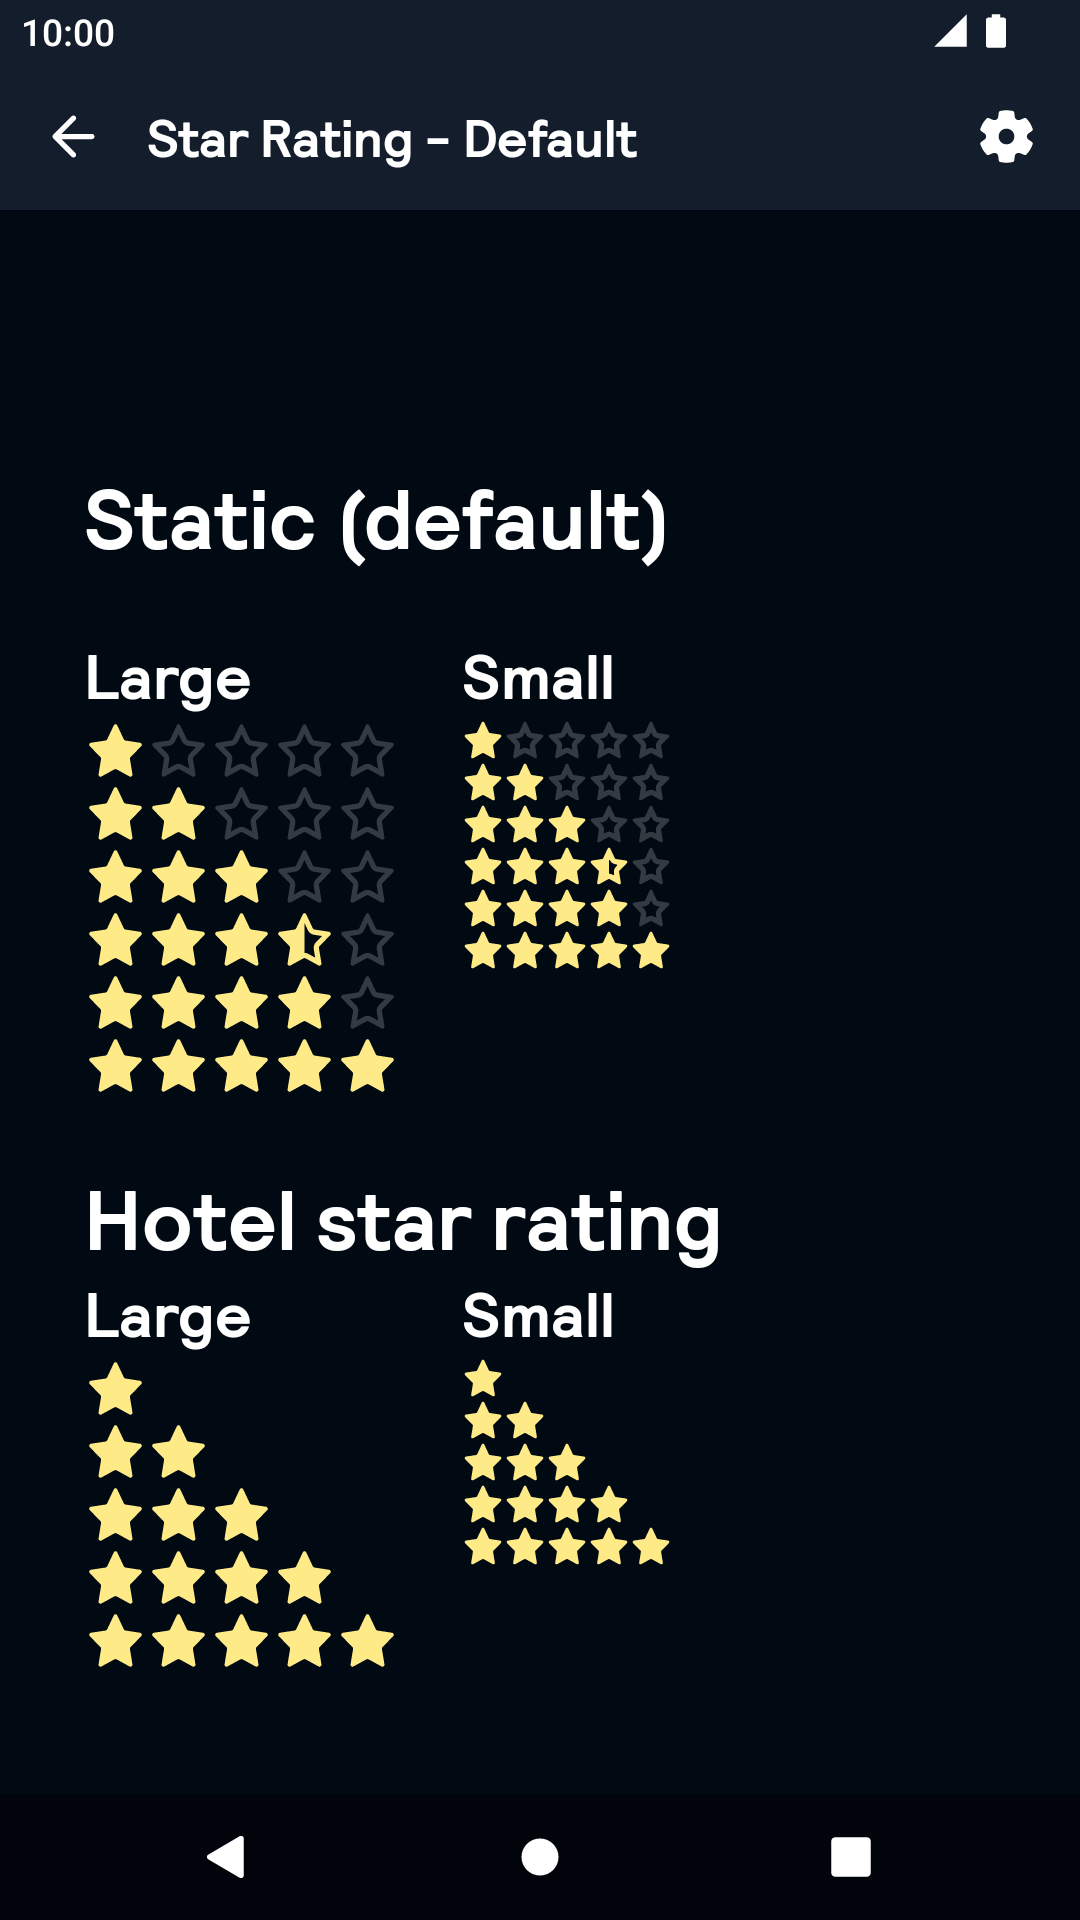
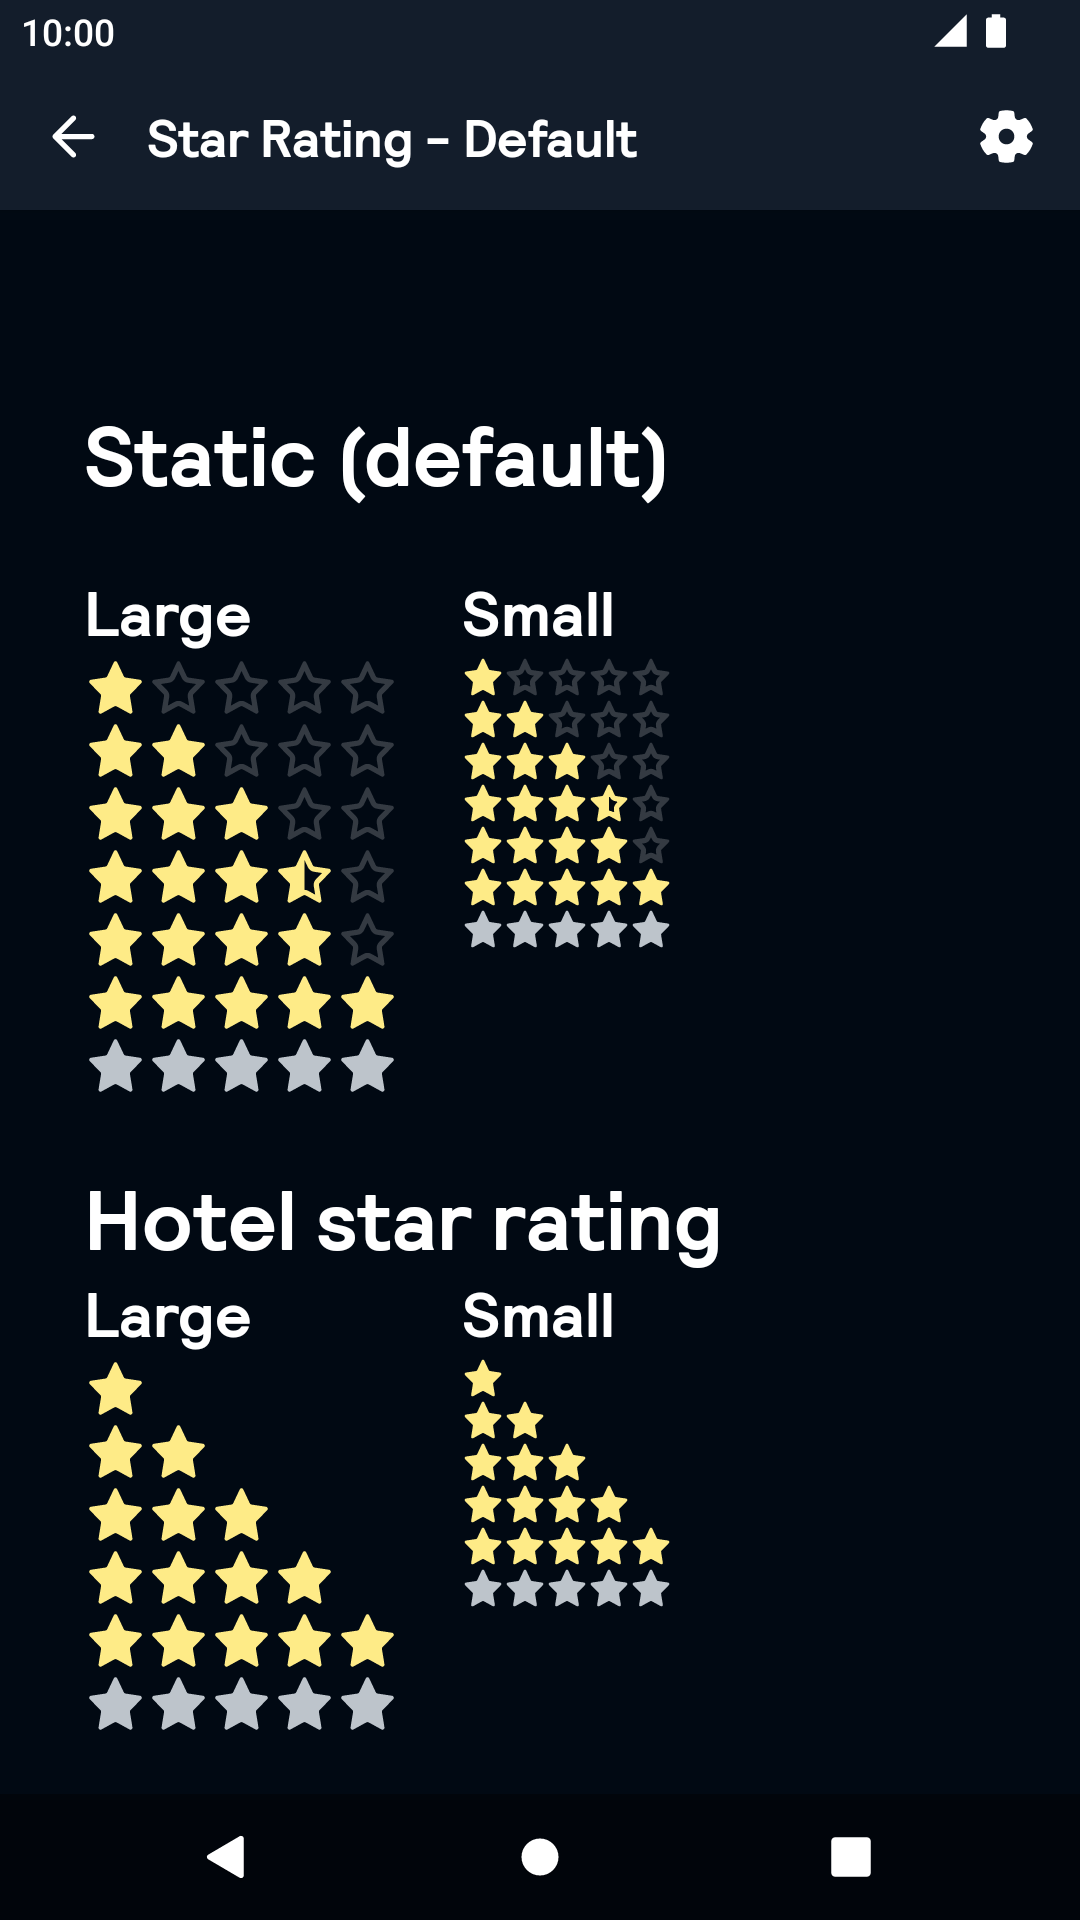
PAN-3441: Add color param for star rating components.

diff --git a/backpack-compose/src/main/kotlin/net/skyscanner/backpack/compose/starrating/BpkStarRating.kt b/backpack-compose/src/main/kotlin/net/skyscanner/backpack/compose/starrating/BpkStarRating.kt
@@ -25,14 +25,11 @@ import androidx.compose.foundation.progressSemantics
 import androidx.compose.runtime.Composable
 import androidx.compose.runtime.key
 import androidx.compose.ui.Modifier
+import androidx.compose.ui.graphics.Color
 import androidx.compose.ui.platform.LocalContext
 import androidx.compose.ui.semantics.semantics
 import androidx.compose.ui.semantics.setProgress
 import androidx.compose.ui.semantics.stateDescription
-import kotlin.math.ceil
-import kotlin.math.floor
-import kotlin.math.round
-import kotlin.math.roundToInt
 import net.skyscanner.backpack.compose.icon.BpkIcon
 import net.skyscanner.backpack.compose.icon.BpkIconSize
 import net.skyscanner.backpack.compose.theme.BpkTheme
@@ -42,6 +39,10 @@ import net.skyscanner.backpack.compose.tokens.StarOutline
 import net.skyscanner.backpack.compose.utils.ContentDescriptionScope
 import net.skyscanner.backpack.compose.utils.applyIf
 import net.skyscanner.backpack.compose.utils.clickableWithRipple
+import kotlin.math.ceil
+import kotlin.math.floor
+import kotlin.math.round
+import kotlin.math.roundToInt
 
 enum class BpkStarRatingSize {
     Large,
@@ -61,6 +62,7 @@ fun BpkStarRating(
     modifier: Modifier = Modifier,
     rounding: BpkRatingRounding = BpkRatingRounding.Down,
     size: BpkStarRatingSize = BpkStarRatingSize.Small,
+    color: Color? = null,
 ) {
     BpkStarRating(
         rating = rating,
@@ -70,6 +72,7 @@ fun BpkStarRating(
         modifier = modifier,
         contentDescription = contentDescription,
         size = size,
+        color = color,
     )
 }
 
@@ -79,6 +82,7 @@ fun BpkHotelRating(
     contentDescription: ContentDescriptionScope.(Float, Int) -> String,
     modifier: Modifier = Modifier,
     size: BpkStarRatingSize = BpkStarRatingSize.Small,
+    color: Color? = null,
 ) {
     BpkStarRating(
         rating = rating.toFloat(),
@@ -88,6 +92,7 @@ fun BpkHotelRating(
         modifier = modifier,
         contentDescription = contentDescription,
         size = size,
+        color = color,
     )
 }
 
@@ -98,6 +103,7 @@ fun BpkInteractiveStarRating(
     contentDescription: ContentDescriptionScope.(Float, Int) -> String,
     modifier: Modifier = Modifier,
     size: BpkStarRatingSize = BpkStarRatingSize.Small,
+    color: Color? = null,
 ) {
     BpkStarRating(
         rating = rating.toFloat(),
@@ -108,6 +114,7 @@ fun BpkInteractiveStarRating(
         onRatingChanged = onRatingChanged,
         contentDescription = contentDescription,
         size = size,
+        color = color,
     )
 }
 
@@ -121,6 +128,7 @@ private fun BpkStarRating(
     modifier: Modifier = Modifier,
     size: BpkStarRatingSize = BpkStarRatingSize.Large,
     onRatingChanged: ((Int) -> Unit)? = null,
+    color: Color? = null,
 ) {
     val iconSize = when (size) {
         BpkStarRatingSize.Large -> BpkIconSize.Large
@@ -159,11 +167,13 @@ private fun BpkStarRating(
                         icon = BpkRatingStarType.Half,
                         iconSize = iconSize,
                         modifier = starModifier,
+                        color = color,
                     )
                     else -> BpkStar(
                         icon = BpkRatingStarType.Full,
                         iconSize = iconSize,
                         modifier = starModifier,
+                        color = color,
                     )
                 }
             }
@@ -176,6 +186,7 @@ private fun BpkStar(
     icon: BpkRatingStarType,
     iconSize: BpkIconSize,
     modifier: Modifier = Modifier,
+    color: Color? = null,
 ) {
     when (icon) {
         BpkRatingStarType.Empty -> BpkIcon(
@@ -189,14 +200,14 @@ private fun BpkStar(
             icon = BpkIcon.StarHalf,
             contentDescription = null,
             size = iconSize,
-            tint = BpkTheme.colors.statusWarningSpot,
+            tint = color ?: BpkTheme.colors.statusWarningSpot,
             modifier = modifier,
         )
         BpkRatingStarType.Full -> BpkIcon(
             icon = BpkIcon.Star,
             contentDescription = null,
             size = iconSize,
-            tint = BpkTheme.colors.statusWarningSpot,
+            tint = color ?: BpkTheme.colors.statusWarningSpot,
             modifier = modifier,
         )
     }

diff --git a/app/src/test/java/net/skyscanner/backpack/compose/starrating/BpkStarRatingTest.kt b/app/src/test/java/net/skyscanner/backpack/compose/starrating/BpkStarRatingTest.kt
@@ -20,6 +20,7 @@
 package net.skyscanner.backpack.compose.starrating
 
 import net.skyscanner.backpack.compose.BpkSnapshotTest
+import net.skyscanner.backpack.compose.theme.BpkTheme
 import net.skyscanner.backpack.demo.R
 import org.junit.Test
 
@@ -120,12 +121,34 @@ class BpkStarRatingTest : BpkSnapshotTest() {
     }
 
     @Test
+    fun starWithColor() = snap {
+        BpkStarRating(
+            rating = 3f,
+            contentDescription = { value, max ->
+                stringResource(R.string.star_rating_accessibility_status, value, max)
+            },
+            color = BpkTheme.colors.textSecondary,
+        )
+    }
+
+    @Test
     fun hotelStarRating4() = snap {
         BpkHotelRating(
             rating = 4,
             contentDescription = { value, max ->
                 stringResource(R.string.star_rating_accessibility_status, value, max)
             },
+        )
+    }
+
+    @Test
+    fun hotelStarRatingWithColor() = snap {
+        BpkHotelRating(
+            rating = 4,
+            contentDescription = { value, max ->
+                stringResource(R.string.star_rating_accessibility_status, value, max)
+            },
+            color = BpkTheme.colors.textSecondary,
         )
     }
 
@@ -137,6 +160,18 @@ class BpkStarRatingTest : BpkSnapshotTest() {
             contentDescription = { value, max ->
                 stringResource(R.string.star_rating_accessibility_status, value, max)
             },
+        )
+    }
+
+    @Test
+    fun interactiveStarRatingWithColor() = snap {
+        BpkInteractiveStarRating(
+            rating = 2,
+            onRatingChanged = { },
+            contentDescription = { value, max ->
+                stringResource(R.string.star_rating_accessibility_status, value, max)
+            },
+            color = BpkTheme.colors.textSecondary,
         )
     }
 }

diff --git a/app/src/main/java/net/skyscanner/backpack/demo/compose/StarRatingStory.kt b/app/src/main/java/net/skyscanner/backpack/demo/compose/StarRatingStory.kt
@@ -116,6 +116,14 @@ private fun HotelRatingSample(
                 )
             }
         }
+        BpkHotelRating(
+            rating = 5,
+            contentDescription = { value, max ->
+                stringResource(R.string.star_rating_accessibility_status, value, max)
+            },
+            size = size,
+            color = BpkTheme.colors.textSecondary,
+        )
     }
 }
 
@@ -143,5 +151,14 @@ private fun StaticRatingSample(
                 )
             }
         }
+        BpkStarRating(
+            rating = 5.0f,
+            contentDescription = { value, max ->
+                stringResource(R.string.star_rating_decimal_accessibility_status, value, max)
+            },
+            rounding = BpkRatingRounding.Up,
+            size = size,
+            color = BpkTheme.colors.textSecondary,
+        )
     }
 }
